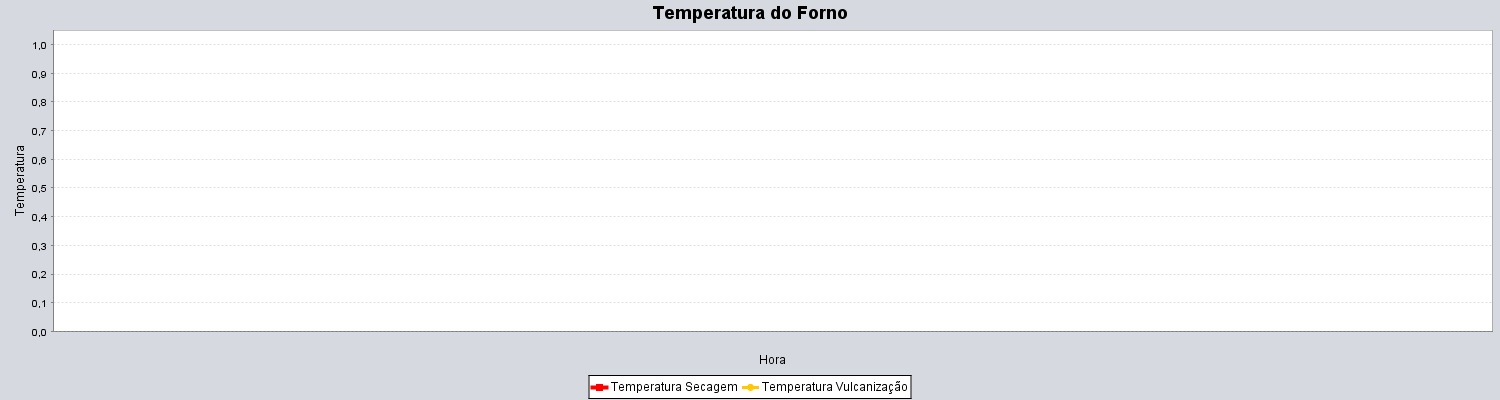
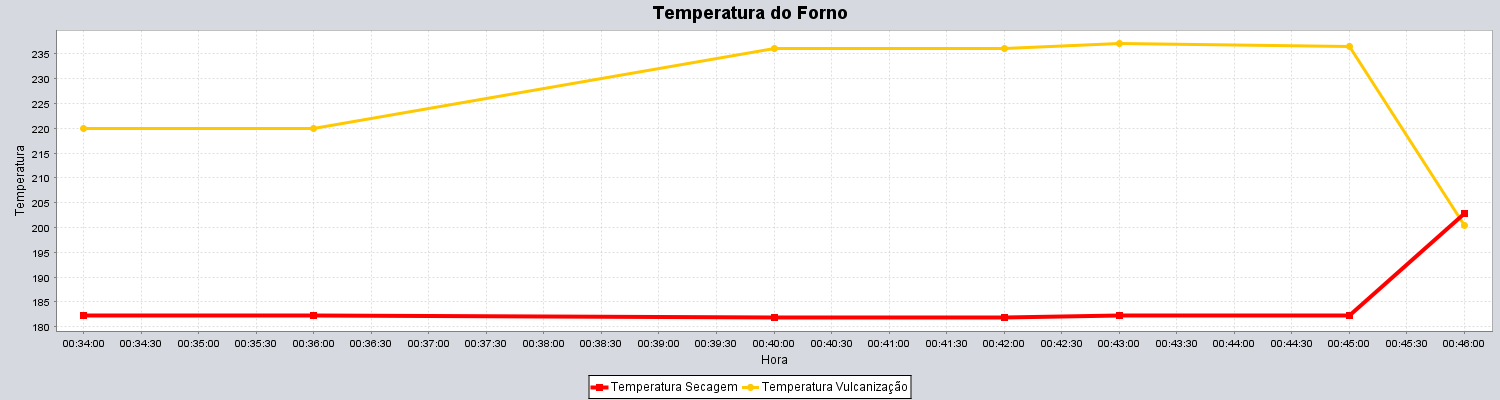
View Config e View Principal ok

diff --git a/src/gui/ViewMain.java b/src/gui/ViewMain.java
@@ -5,7 +5,7 @@
  */
 package gui;
 
-import model.util.Gravador;
+import model.util.Writer;
 import model.util.Config;
 import model.enums.ConfigList;
 import model.util.Utils;
@@ -54,8 +54,11 @@ public class ViewMain extends javax.swing.JFrame {
                             String cmdSalvar = dados[3];
 
                             try {
-                                lblZ1.setText(z1);
-                                lblZ2.setText(z2);
+                                Double tempSec1 = Double.parseDouble(z1) + Double.parseDouble(Config.loadConfig(ConfigList.OFFSETSECAGEM_1));
+                                Double tempVul1 = Double.parseDouble(z2) + Double.parseDouble(Config.loadConfig(ConfigList.OFFSETVULCANICACAO_1));
+                                
+                                lblZ1.setText(tempSec1.toString());
+                                lblZ2.setText(tempVul1.toString());
                                 lblEstado.setText(estado);
 
                                 if (!"Comunicação estabelecida".equals(lastLog)) {
@@ -63,11 +66,11 @@ public class ViewMain extends javax.swing.JFrame {
                                     lastLog = "Comunicação estabelecida";
                                 }
 
-                                LeituraMaquina leitura = new LeituraMaquina(Double.parseDouble(z1), Double.parseDouble(z2), estado);
+                                LeituraMaquina leitura = new LeituraMaquina(tempSec1,tempVul1 , estado);
 
                                 if ("salvar".equals(cmdSalvar)) {
                                     System.out.println("Registro " + Utils.getDataSistema());
-                                    Gravador.write(leitura);
+                                    Writer.write(leitura);
                                     carregaGrafico();
                                 }
                             } catch (NumberFormatException e) {
@@ -158,13 +161,13 @@ public class ViewMain extends javax.swing.JFrame {
         lblZ1.setName("lblZ1"); // NOI18N
 
         jLabel4.setFont(new java.awt.Font("Tahoma", 0, 18)); // NOI18N
-        jLabel4.setText("Temperatura Zona 2");
+        jLabel4.setText("Temperatura Vulcanização");
 
         jLabel5.setFont(new java.awt.Font("Tahoma", 0, 18)); // NOI18N
         jLabel5.setText("Estado:");
 
         jLabel6.setFont(new java.awt.Font("Tahoma", 0, 18)); // NOI18N
-        jLabel6.setText("Temperatura Zona 1");
+        jLabel6.setText("Temperatura Secagem");
 
         jLabel1.setFont(new java.awt.Font("Times New Roman", 1, 11)); // NOI18N
         jLabel1.setText("Maquina 1");
@@ -175,24 +178,21 @@ public class ViewMain extends javax.swing.JFrame {
             jPanel2Layout.createParallelGroup(javax.swing.GroupLayout.Alignment.LEADING)
             .addGroup(jPanel2Layout.createSequentialGroup()
                 .addContainerGap()
-                .addGroup(jPanel2Layout.createParallelGroup(javax.swing.GroupLayout.Alignment.LEADING)
-                    .addGroup(jPanel2Layout.createSequentialGroup()
-                        .addGroup(jPanel2Layout.createParallelGroup(javax.swing.GroupLayout.Alignment.TRAILING)
-                            .addComponent(jLabel4, javax.swing.GroupLayout.PREFERRED_SIZE, 194, javax.swing.GroupLayout.PREFERRED_SIZE)
-                            .addComponent(jLabel6, javax.swing.GroupLayout.PREFERRED_SIZE, 194, javax.swing.GroupLayout.PREFERRED_SIZE))
-                        .addPreferredGap(javax.swing.LayoutStyle.ComponentPlacement.UNRELATED)
-                        .addGroup(jPanel2Layout.createParallelGroup(javax.swing.GroupLayout.Alignment.LEADING)
-                            .addComponent(lblZ2, javax.swing.GroupLayout.PREFERRED_SIZE, 74, javax.swing.GroupLayout.PREFERRED_SIZE)
-                            .addComponent(lblZ1, javax.swing.GroupLayout.PREFERRED_SIZE, 74, javax.swing.GroupLayout.PREFERRED_SIZE)))
-                    .addGroup(jPanel2Layout.createSequentialGroup()
-                        .addComponent(jLabel5, javax.swing.GroupLayout.PREFERRED_SIZE, 86, javax.swing.GroupLayout.PREFERRED_SIZE)
-                        .addPreferredGap(javax.swing.LayoutStyle.ComponentPlacement.RELATED)
-                        .addComponent(lblEstado, javax.swing.GroupLayout.PREFERRED_SIZE, 149, javax.swing.GroupLayout.PREFERRED_SIZE)))
-                .addContainerGap(javax.swing.GroupLayout.DEFAULT_SIZE, Short.MAX_VALUE))
+                .addComponent(jLabel5, javax.swing.GroupLayout.PREFERRED_SIZE, 86, javax.swing.GroupLayout.PREFERRED_SIZE)
+                .addPreferredGap(javax.swing.LayoutStyle.ComponentPlacement.RELATED)
+                .addComponent(lblEstado, javax.swing.GroupLayout.PREFERRED_SIZE, 149, javax.swing.GroupLayout.PREFERRED_SIZE))
             .addGroup(javax.swing.GroupLayout.Alignment.TRAILING, jPanel2Layout.createSequentialGroup()
                 .addContainerGap(javax.swing.GroupLayout.DEFAULT_SIZE, Short.MAX_VALUE)
                 .addComponent(jLabel1, javax.swing.GroupLayout.PREFERRED_SIZE, 64, javax.swing.GroupLayout.PREFERRED_SIZE)
                 .addGap(116, 116, 116))
+            .addGroup(jPanel2Layout.createSequentialGroup()
+                .addGroup(jPanel2Layout.createParallelGroup(javax.swing.GroupLayout.Alignment.LEADING)
+                    .addComponent(jLabel6, javax.swing.GroupLayout.PREFERRED_SIZE, 194, javax.swing.GroupLayout.PREFERRED_SIZE)
+                    .addComponent(jLabel4, javax.swing.GroupLayout.PREFERRED_SIZE, 216, javax.swing.GroupLayout.PREFERRED_SIZE))
+                .addPreferredGap(javax.swing.LayoutStyle.ComponentPlacement.RELATED)
+                .addGroup(jPanel2Layout.createParallelGroup(javax.swing.GroupLayout.Alignment.LEADING)
+                    .addComponent(lblZ2, javax.swing.GroupLayout.PREFERRED_SIZE, 74, javax.swing.GroupLayout.PREFERRED_SIZE)
+                    .addComponent(lblZ1, javax.swing.GroupLayout.Alignment.TRAILING, javax.swing.GroupLayout.PREFERRED_SIZE, 74, javax.swing.GroupLayout.PREFERRED_SIZE)))
         );
         jPanel2Layout.setVerticalGroup(
             jPanel2Layout.createParallelGroup(javax.swing.GroupLayout.Alignment.LEADING)
@@ -237,7 +237,7 @@ public class ViewMain extends javax.swing.JFrame {
         pnlGrafico.setLayout(pnlGraficoLayout);
         pnlGraficoLayout.setHorizontalGroup(
             pnlGraficoLayout.createParallelGroup(javax.swing.GroupLayout.Alignment.LEADING)
-            .addComponent(sclGrafico, javax.swing.GroupLayout.DEFAULT_SIZE, 446, Short.MAX_VALUE)
+            .addComponent(sclGrafico, javax.swing.GroupLayout.DEFAULT_SIZE, 451, Short.MAX_VALUE)
         );
         pnlGraficoLayout.setVerticalGroup(
             pnlGraficoLayout.createParallelGroup(javax.swing.GroupLayout.Alignment.LEADING)
@@ -297,8 +297,8 @@ public class ViewMain extends javax.swing.JFrame {
             layout.createParallelGroup(javax.swing.GroupLayout.Alignment.LEADING)
             .addGroup(layout.createSequentialGroup()
                 .addContainerGap()
-                .addComponent(jPanel2, javax.swing.GroupLayout.PREFERRED_SIZE, 291, javax.swing.GroupLayout.PREFERRED_SIZE)
-                .addGap(18, 18, 18)
+                .addComponent(jPanel2, javax.swing.GroupLayout.PREFERRED_SIZE, javax.swing.GroupLayout.DEFAULT_SIZE, javax.swing.GroupLayout.PREFERRED_SIZE)
+                .addPreferredGap(javax.swing.LayoutStyle.ComponentPlacement.RELATED)
                 .addComponent(pnlGrafico, javax.swing.GroupLayout.DEFAULT_SIZE, javax.swing.GroupLayout.DEFAULT_SIZE, Short.MAX_VALUE)
                 .addContainerGap())
             .addComponent(sPnl1, javax.swing.GroupLayout.Alignment.TRAILING)

diff --git a/src/gui/ViewConfiguracao.java b/src/gui/ViewConfiguracao.java
@@ -13,6 +13,9 @@ import model.util.Config;
 import model.enums.ConfigList;
 import model.enums.TypePane;
 import gui.util.CheckTextField;
+import gui.util.FormatLocalPath;
+import model.entities.LeituraMaquina;
+import model.util.Writer;
 
 /**
  *
@@ -26,14 +29,13 @@ public class ViewConfiguracao extends javax.swing.JDialog {
     public ViewConfiguracao(java.awt.Frame parent, boolean modal) {
         super(parent, modal);
         initComponents();
-        
-        String[] lstCom = new String[]{"COM1","COM2","COM3","COM4","COM5","COM6","COM7","COM8","COM9"};
-        for(String lst:lstCom){
-        cboCom.addItem(lst);
-        txtLocal.setText(Config.loadConfig(ConfigList.LOCALFOLDER));
-        txtRemoto.setText(Config.loadConfig(ConfigList.CLOUDFOLDER));        
-            
-    }
+
+        String[] lstCom = new String[]{"COM1", "COM2", "COM3", "COM4", "COM5", "COM6", "COM7", "COM8", "COM9"};
+        for (String lst : lstCom) {
+            cboCom.addItem(lst);
+            txtLocal.setText(FormatLocalPath.TwoBarsToOneBar(Config.loadConfig(ConfigList.LOCALFOLDER)));
+            txtRemoto.setText(Config.loadConfig(ConfigList.CLOUDFOLDER));
+        }
     }
 
     /**
@@ -97,7 +99,7 @@ public class ViewConfiguracao extends javax.swing.JDialog {
                             .addComponent(txtLocal)))
                     .addGroup(layout.createSequentialGroup()
                         .addGap(100, 100, 100)
-                        .addComponent(btnAlterar)))
+                        .addComponent(btnAlterar, javax.swing.GroupLayout.PREFERRED_SIZE, 84, javax.swing.GroupLayout.PREFERRED_SIZE)))
                 .addContainerGap(71, Short.MAX_VALUE))
         );
         layout.setVerticalGroup(
@@ -116,8 +118,8 @@ public class ViewConfiguracao extends javax.swing.JDialog {
                 .addGap(18, 18, 18)
                 .addComponent(txtRemoto, javax.swing.GroupLayout.PREFERRED_SIZE, javax.swing.GroupLayout.DEFAULT_SIZE, javax.swing.GroupLayout.PREFERRED_SIZE)
                 .addGap(33, 33, 33)
-                .addComponent(btnAlterar)
-                .addContainerGap(56, Short.MAX_VALUE))
+                .addComponent(btnAlterar, javax.swing.GroupLayout.PREFERRED_SIZE, 36, javax.swing.GroupLayout.PREFERRED_SIZE)
+                .addContainerGap(43, Short.MAX_VALUE))
         );
 
         pack();
@@ -128,21 +130,31 @@ public class ViewConfiguracao extends javax.swing.JDialog {
     }//GEN-LAST:event_cboComActionPerformed
 
     private void btnAlterarActionPerformed(java.awt.event.ActionEvent evt) {//GEN-FIRST:event_btnAlterarActionPerformed
-            List<JTextField> lst = new ArrayList<>();
-            lst.add(txtLocal);
-            lst.add(txtRemoto);
-        if (CheckTextField.emptyList(lst) == true){
+        List<JTextField> lst = new ArrayList<>();
+        lst.add(txtLocal);
+        lst.add(txtRemoto);
+        if (CheckTextField.emptyList(lst) == true) {
+
+            Alerts.showAlert("Campos não preenchidos", "Preencher todos os campos solicitados", "", TypePane.ERRO);
+        } else {
+            String currentPath = Config.loadConfig(ConfigList.LOCALFOLDER);
             
-            Alerts.showAlert("Campos não preenchidos", "Preencher todos os campos solicitados", "",TypePane.ERRO);
-        }
-        
-        else {
-            Config.setConfig(new Config(ConfigList.ARDUINOCOM, cboCom.getSelectedItem().toString()));
-            Config.setConfig(new Config(ConfigList.LOCALFOLDER, txtLocal.getText()));
-            Config.setConfig(new Config(ConfigList.CLOUDFOLDER, txtRemoto.getText()));
+            try {
+                Config.setConfig(new Config(ConfigList.LOCALFOLDER, FormatLocalPath.OneBarToTwoBars(txtLocal.getText())));
+                Writer.write(new LeituraMaquina(0.0, 0.0, "Alteração de repositorio"));
+                Config.setConfig(new Config(ConfigList.ARDUINOCOM, cboCom.getSelectedItem().toString()));
+                Config.setConfig(new Config(ConfigList.CLOUDFOLDER, txtRemoto.getText()));
+                Alerts.showAlert("Diretorios Salvos", "Os diretorios foram alterados com sucesso", "", TypePane.INFORMATION);
+                this.dispose();
+            } catch (Exception e) {
+                Alerts.showAlert("Diretorio Inválido", "O caminho informado: " + FormatLocalPath.TwoBarsToOneBar(Config.loadConfig(ConfigList.LOCALFOLDER)) + " não existe.", "", TypePane.ERRO);
+                Config.setConfig(new Config(ConfigList.LOCALFOLDER, currentPath));
+            }
             
+            
+
         }
-        
+
     }//GEN-LAST:event_btnAlterarActionPerformed
 
     /**

diff --git a/src/gui/ViewOffset.java b/src/gui/ViewOffset.java
@@ -5,9 +5,11 @@
  */
 package gui;
 
+import gui.util.Alerts;
 import gui.util.CheckTextField;
 import gui.util.Constraints;
 import model.enums.ConfigList;
+import model.enums.TypePane;
 import model.util.Config;
 
 /**
@@ -24,21 +26,21 @@ public class ViewOffset extends javax.swing.JDialog {
         initComponents();
         
         Constraints.setTextFieldDouble(txtSecagem1);
-        Constraints.setTextFieldMaxLength(txtSecagem1, 4);
+        Constraints.setTextFieldMaxLength(txtSecagem1, 5);
         Constraints.setTextFieldDouble(txtSecagem2);
-        Constraints.setTextFieldMaxLength(txtSecagem2, 4);
+        Constraints.setTextFieldMaxLength(txtSecagem2, 5);
         Constraints.setTextFieldDouble(txtSecagem3);
-        Constraints.setTextFieldMaxLength(txtSecagem3, 4);
+        Constraints.setTextFieldMaxLength(txtSecagem3, 5);
         Constraints.setTextFieldDouble(txtSecagem3);
-        Constraints.setTextFieldMaxLength(txtSecagem4, 4);
+        Constraints.setTextFieldMaxLength(txtSecagem4, 5);
         Constraints.setTextFieldDouble(txtVulcanizacao1);
-        Constraints.setTextFieldMaxLength(txtVulcanizacao1, 4);
+        Constraints.setTextFieldMaxLength(txtVulcanizacao1, 5);
         Constraints.setTextFieldDouble(txtVulcanizacao2);
-        Constraints.setTextFieldMaxLength(txtVulcanizacao2, 4);
+        Constraints.setTextFieldMaxLength(txtVulcanizacao2, 5);
         Constraints.setTextFieldDouble(txtVulcanizacao3);
-        Constraints.setTextFieldMaxLength(txtVulcanizacao3, 4);
+        Constraints.setTextFieldMaxLength(txtVulcanizacao3, 5);
         Constraints.setTextFieldDouble(txtVulcanizacao4);
-        Constraints.setTextFieldMaxLength(txtVulcanizacao4, 4);
+        Constraints.setTextFieldMaxLength(txtVulcanizacao4, 5);
         
         txtSecagem1.setText(Config.loadConfig(ConfigList.OFFSETSECAGEM_1));
         txtSecagem2.setText(Config.loadConfig(ConfigList.OFFSETSECAGEM_2));
@@ -265,6 +267,9 @@ public class ViewOffset extends javax.swing.JDialog {
         }else{
             Config.setConfig(new Config(ConfigList.OFFSETVULCANICACAO_4, "0"));
         }
+        
+        Alerts.showAlert("Valores Salvos", "Os valores foram salvos com sucesso", "", TypePane.INFORMATION);
+        this.dispose();
     }//GEN-LAST:event_btnAlterarActionPerformed
 
     private void txtVulcanizacao1ActionPerformed(java.awt.event.ActionEvent evt) {//GEN-FIRST:event_txtVulcanizacao1ActionPerformed

diff --git a/src/model/util/Writer.java b/src/model/util/Writer.java
@@ -16,29 +16,28 @@ import model.entities.LeituraMaquina;
  *
  * @author Herbert
  */
-public class Gravador {
+public class Writer {
     
     public static void write(LeituraMaquina leitura){
         
-        File file = new File(Config.loadConfig(ConfigList.LOCALFOLDER));
+        File file = new File(Config.loadConfig(ConfigList.LOCALFOLDER) + "\\");
         File[] folders = file.listFiles(File::isDirectory);
         
         boolean checkFolder = false;
         
-        for (File folder:folders){
+        for (File folder:folders){ // Verifica se exite a pasta do mês vigente
             if (folder.getName().equals(Utils.getMesAnoFormated_())){
                 checkFolder = true;
                 break;
             }
         }
-        String filePath = (Config.loadConfig(ConfigList.LOCALFOLDER) + Utils.getMesAnoFormated_());
+        String filePath = (Config.loadConfig(ConfigList.LOCALFOLDER)+ "\\" + Utils.getMesAnoFormated_());
         
-        if (checkFolder == false){
+        if (checkFolder == false){ // Cria uma pasta do mês, se não houver
         boolean createFolder = new File(filePath).mkdir();
         }
         
-        
-        String path = filePath+ "\\" + Utils.getDataFormated_() + ".txt";
+        String path = filePath+ "\\" + Utils.getDataFormated_() + ".txt"; //cria ou seleciona um txt do dia
         
         try (BufferedWriter bw = new BufferedWriter(new FileWriter(path, true))) {
             

diff --git a/src/gui/util/FormatLocalPath.java b/src/gui/util/FormatLocalPath.java
@@ -1,0 +1,26 @@
+/*
+ * To change this license header, choose License Headers in Project Properties.
+ * To change this template file, choose Tools | Templates
+ * and open the template in the editor.
+ */
+package gui.util;
+
+/**
+ *
+ * @author Herbert
+ */
+public class FormatLocalPath {
+
+    public static String OneBarToTwoBars(String path) {
+        String newPath = path.replace("\\", "\\\\");
+        System.out.println(newPath);
+        return newPath;
+    }
+
+    public static String TwoBarsToOneBar(String path) {
+        String newPath = path.replace("\\\\", "\\");
+        System.out.println(newPath);
+        return newPath;
+    }
+
+}

diff --git a/src/model/util/Grafico.java b/src/model/util/Grafico.java
@@ -72,7 +72,7 @@ public class Grafico extends ApplicationFrame {
         final TimeSeries z1 = new TimeSeries("Temperatura Secagem", Minute.class);
         final TimeSeries z2 = new TimeSeries("Temperatura Vulcanização", Minute.class);
 
-        String path = Config.loadConfig(ConfigList.LOCALFOLDER) + Utils.getMesAnoFormated_() + "\\" + Utils.getDataFormated_() + ".txt";
+        String path = Config.loadConfig(ConfigList.LOCALFOLDER)+ "\\" + Utils.getMesAnoFormated_() + "\\" + Utils.getDataFormated_() + ".txt";
 
         try (BufferedReader br = new BufferedReader(new FileReader(path))) {
             String line = br.readLine();

diff --git a/src/gui/util/Constraints.java b/src/gui/util/Constraints.java
@@ -35,9 +35,9 @@ public class Constraints {
         txt.addKeyListener(new KeyAdapter() {
             public void keyTyped(KeyEvent e) {
                 char letter = e.getKeyChar();
-                if (e.toString() != null && !txt.getText().matches("\\d*([\\.]\\d*)?")) {
+                if (e.toString() != null && !txt.getText().matches("([\\-]\\d*)?\\d*([\\.]\\d*)?")) {
                     e.consume();
-                } else if (letter == '.') {
+                } else if (letter == '.' || letter =='-') {
                 } else if (!Character.isDigit(letter)) {
                     e.consume();
                 }
